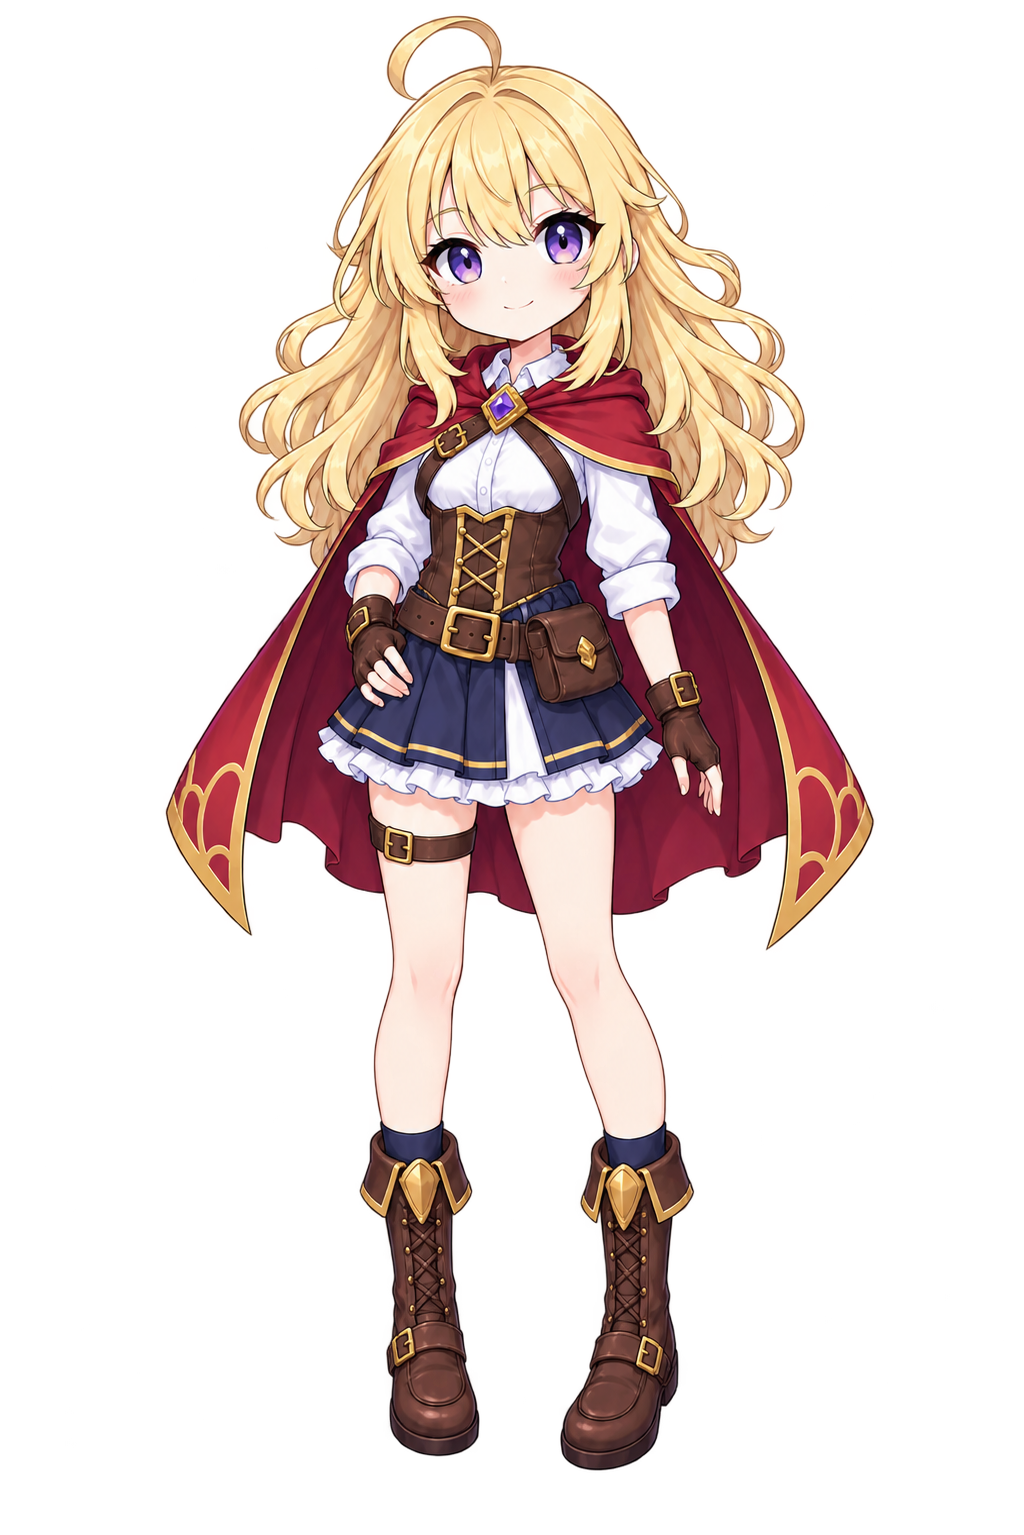
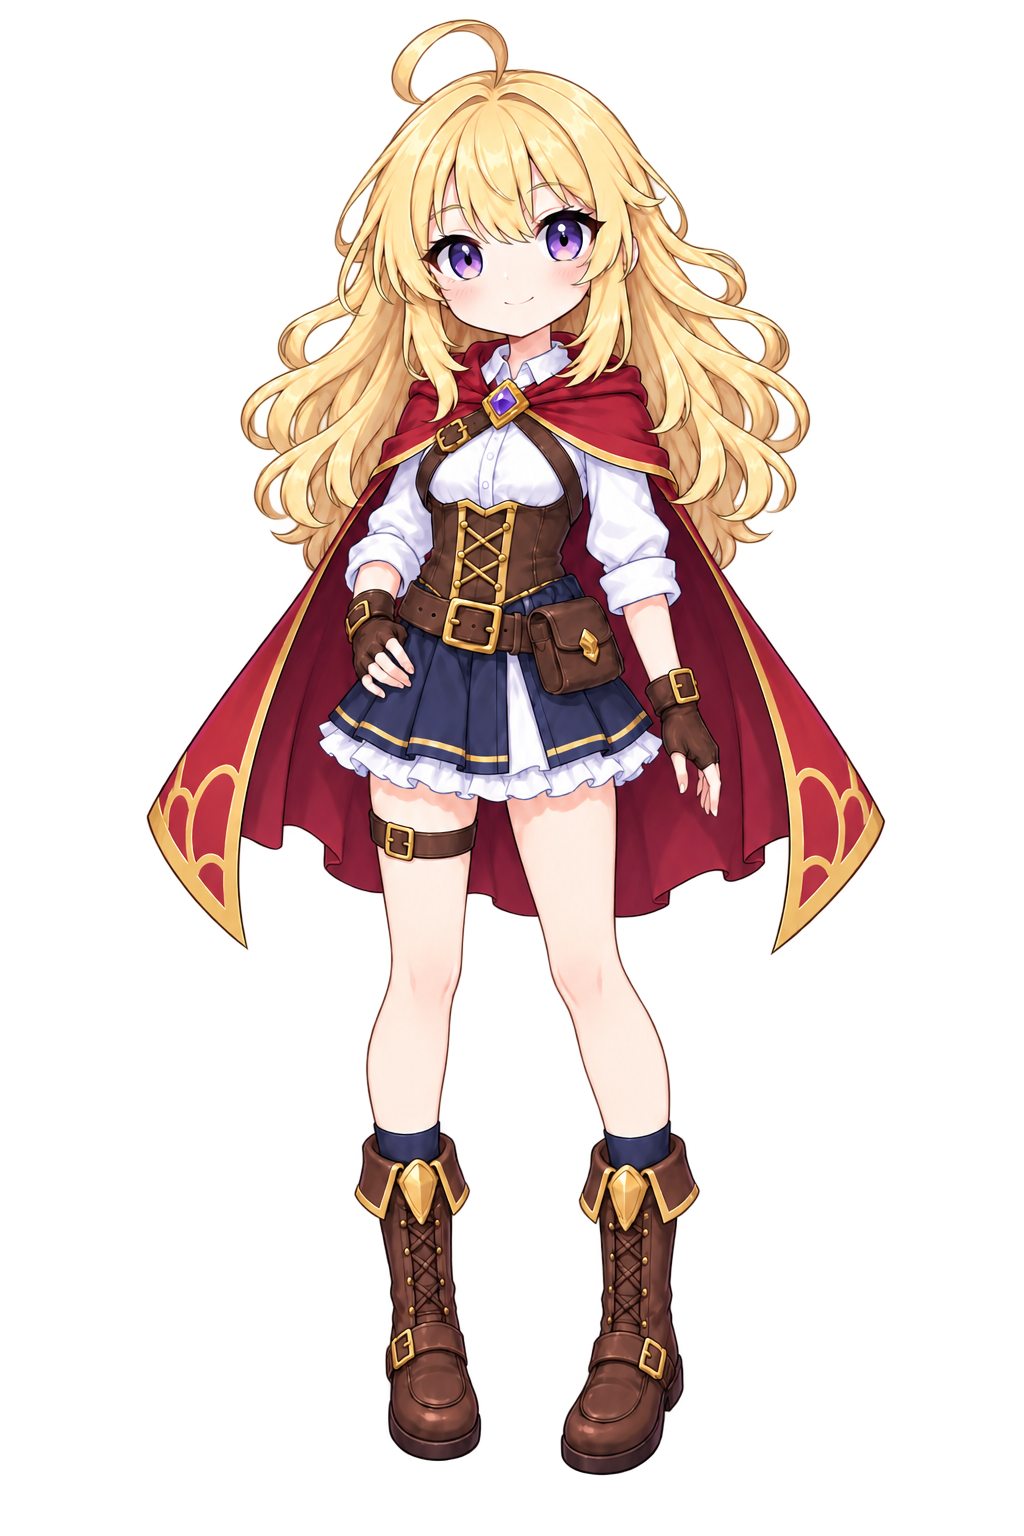
art: apply updated portraits and simplify village header

diff --git a/prototype/index.html b/prototype/index.html
@@ -7,12 +7,12 @@
 <title>共鳴之塔｜Resonance Tower</title>
 <link rel="stylesheet" href="styles/base.css?v=20260905-4">
 <link rel="stylesheet" href="styles/items.css?v=20260905-1">
-<link rel="stylesheet" href="styles/story.css?v=20260905-17">
+<link rel="stylesheet" href="styles/story.css?v=20260905-18">
 <link rel="stylesheet" href="styles/world.css?v=20260905-11">
 <link rel="stylesheet" href="styles/events.css?v=20260905-2">
 <link rel="stylesheet" href="styles/journal.css?v=20260905-2">
 <link rel="stylesheet" href="styles/shop.css?v=20260905-1">
-<link rel="stylesheet" href="styles/village.css?v=20260905-3">
+<link rel="stylesheet" href="styles/village.css?v=20260905-4">
 </head>
 <body>
 
@@ -235,7 +235,7 @@
       <aside class="shopKeeperPanel">
         <div class="shopKeeperIdentity"><small data-i18n="shop.keeperRole">旅途中的商人</small><b>露咪<span aria-hidden="true">✦</span></b></div>
         <button class="shopKeeperArt" type="button" aria-label="和露咪聊聊" data-i18n-aria-label="shop.chatHint">
-          <img src="assets/characters/merchant_full.png" alt="露咪">
+          <img src="assets/characters/merchant.png" alt="露咪">
         </button>
         <button id="shopDialogue" type="button">
           <span id="shopKeeperName" data-i18n="shop.chatHint">和露咪聊聊</span>
@@ -474,7 +474,7 @@
       <span></span><span></span><span></span><span></span><span></span><span></span>
       <span></span><span></span><span></span><span></span><span></span><span></span>
     </div>
-    <div class="heavenTransitionSigil" aria-hidden="true"><img src="assets/story/goddess_back.png" alt=""></div>
+    <div class="heavenTransitionSigil" aria-hidden="true"><img src="assets/story/goddess_back_v2.png" alt=""></div>
     <div class="heavenTransitionVeil" aria-hidden="true"></div>
   </div>
   <div id="soulResonance" role="img" tabindex="-1" aria-label="靈魂共鳴演出" aria-hidden="true">

diff --git a/tests/ui-regression.test.js b/tests/ui-regression.test.js
@@ -1261,10 +1261,8 @@ async function testDesktopVillage(browser) {
     assert.ok(geometry.targets.every(t => t.inside && t.labelHit), 'buildings and labels are clickable');
     assert.equal(await page.locator('#saveGameBtn').isVisible(), false);
     assert.equal(await page.locator('#loadGameBtn').isVisible(), false);
-    await page.locator('#bagBtn').focus();
-    await page.keyboard.press('Enter');
-    assert.equal(await page.getAttribute('#inventoryOverlay', 'aria-hidden'), 'false');
-    await page.click('#inventoryCloseBtn');
+    assert.equal(await page.locator('#bagBtn').isVisible(), false, 'village keeps the inventory entry off stage');
+    await page.waitForTimeout(600); // Wait for the existing surface entrance animation.
     const beforeDebug = await page.locator('#villageView').boundingBox();
     await page.click('#debugToggleBtn');
     assert.equal(await page.locator('#debugPanel').isVisible(), true);
@@ -1284,6 +1282,11 @@ async function testDesktopVillage(browser) {
     await page.keyboard.press('Enter');
     assert.equal(await page.locator('#regionView').isVisible(), true);
     assert.equal(await page.locator('#app').evaluate(el => el.classList.contains('villageActive')), false);
+    assert.equal(await page.locator('#bagBtn').isVisible(), true, 'inventory remains available outside the village scene');
+    await page.locator('#bagBtn').focus();
+    await page.keyboard.press('Enter');
+    assert.equal(await page.getAttribute('#inventoryOverlay', 'aria-hidden'), 'false');
+    await page.click('#inventoryCloseBtn');
     await page.click('#regionBackBtn');
     await page.click('#homeLocationBtn b');
     assert.equal(await page.locator('#homeView').isVisible(), true);

diff --git a/prototype/styles/story.css b/prototype/styles/story.css
@@ -148,7 +148,7 @@
 #dialoguePortraitFrame.sceneArt img { object-position: center; }
 #dialoguePortraitFrame.narration { display: none; }
 #dialoguePortraitFrame.narration + #dialogueBox { margin-top: 0; border-radius: 10px; font-style: italic; }
-#dialoguePortraitFrame.goddessSpeaker::before { content: ''; position: absolute; inset: -8%; background: url('../assets/story/goddess_back.png') center / contain no-repeat; opacity: .62; filter: drop-shadow(0 0 24px rgba(255,213,121,.42)); }
+#dialoguePortraitFrame.goddessSpeaker::before { content: ''; position: absolute; inset: -8%; background: url('../assets/story/goddess_back_v2.png') center / contain no-repeat; opacity: .62; filter: drop-shadow(0 0 24px rgba(255,213,121,.42)); }
 #dialoguePortraitFrame.goddessSpeaker img { position: relative; z-index: 1; }
 #dialogueOverlay.heavenDialogue #dialoguePortraitFrame.goddessSpeaker {
   width: min(480px, 90vw);

diff --git a/prototype/styles/village.css b/prototype/styles/village.css
@@ -27,6 +27,7 @@
 .villageActive .brandCopy b { font-size: 16px; color: #f5e7ca; text-shadow: 0 1px 5px #171712; }
 .villageActive .brandCopy small { font-size: 9px !important; color: #d5cdbb; letter-spacing: .2em; }
 .villageActive .headerActions { gap: 18px; }
+.villageActive #bagBtn { display: none; }
 .villageActive #bagBtn {
   height: 44px;
   min-width: 104px;
@@ -50,7 +51,7 @@
   min-height: 36px;
   padding: 5px 2px 5px 18px;
   border: 0;
-  border-left: 1px solid #e7d8bd40;
+  border-left: 0;
   border-radius: 0;
   background: transparent;
   box-shadow: none;

diff --git a/design.md b/design.md
@@ -147,8 +147,9 @@
 
 - 村莊是外層介面，包含家、商店與遠征入口。
 - 村莊目前以電腦版為唯一設計目標：寬幅繪本場景中直接點擊家、商店或村口，取代三張圖示卡片；保留地點標籤、滑鼠／鍵盤提示與劇情回家引導。手機構圖暫不處理。
-- 村莊介面以場景為主：地點名稱使用暖白字、細金線與柔和暗影，不用厚底框；滑鼠移入或鍵盤選取時才顯示功能說明。頂部工具列疊在場景上，以柔和暗色漸層承托小型標誌、物品庫與低調的開發工具，不另占一條實色區塊。
-- 存檔／讀檔入口暫時從所有畫面隱藏，現有程式與資料格式保留，暫不繼續開發存讀檔功能；不代表已新增自動存檔。這次僅整理村莊物品庫入口外觀，不改背包內容與戰鬥工具列樣式。家內場景改版尚未實作。
+- 村莊介面以場景為主：地點名稱使用暖白字、細金線與柔和暗影，不用厚底框；滑鼠移入或鍵盤選取時才顯示功能說明。頂部工具列疊在場景上，以柔和暗色漸層承托小型標誌與低調的開發工具，不另占一條實色區塊。村莊物品庫入口已隱藏，其他畫面與戰鬥的背包入口保留。
+- 存檔／讀檔入口暫時從所有畫面隱藏，現有程式與資料格式保留，暫不繼續開發存讀檔功能；不代表已新增自動存檔。不改背包內容與戰鬥工具列樣式。家內場景改版尚未實作。
+- 最新玩家提供圖片已套用：小初全身立繪、女神立繪、女神對話與天堂轉場的新版光環，以及商店 Q 版露咪；既有商人全身圖保留，未替親吻圖片新增劇情用途。
 - 家目前有角色培養、旅人手記與締結誓約。
 - 遠征入口先選區域，再選附身角色、藥水與護符；目前只有史萊姆叢林。
 - 現有森林流程仍是兩波小怪、每波隨機 2～3 隻，清完後進入史萊姆王。這是現有戰鬥原型，不代表未來仍採樓層制。

diff --git a/docs/village-scene-2026-09-05.md b/docs/village-scene-2026-09-05.md
@@ -10,6 +10,8 @@ Label refinement: removed the solid brown plates in favor of warm ivory serif na
 
 Header refinement: village-only overlay header with a soft dark gradient, smaller brand, frameless inventory entry and a subdued separated developer button. The debug panel overlays the scene without moving hotspots. Save/load controls are hidden globally at user request; DOM bindings and serialization remain intact, no new persistence behavior. Inventory contents and other screens' header styling are unchanged. design.md records the current scope and deferred home redesign.
 
+Follow-up: the village inventory entry is now hidden entirely for immersion, with access retained on other screens. User-provided merchant.png replaces the shop portrait (merchant_full.png retained); updated xiaochu_full.png and goddess.png use their existing references. goddess_back_v2.png is connected to both the goddess dialogue halo and heaven transition sigil. No changes to image pixels, story scripts or animation timings; xiaochu_kiss_wuming.png remains unassigned pending an approved scene.
+
 Validation: npm test passed; focused desktop checks at widths 1024, 1440 and 1920 passed, covering art aspect ratio, building/label hit areas, shop entry, keyboard gate entry, home round-trip, app width reset and mandatory home guidance. Mobile overlay geometry tests remain, but the desktop-only village beneath them is no longer required to fit a phone viewport.
 
 Generation prompt:
